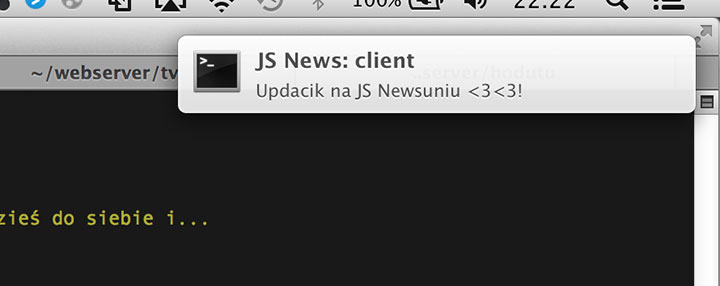
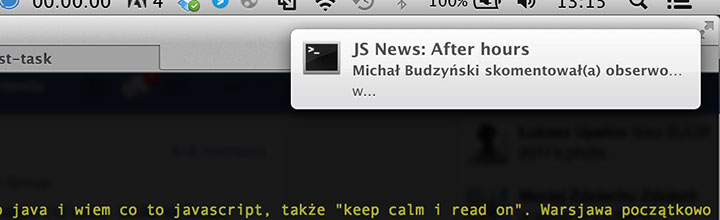
[JSNEWS-CLIENT] - :rocket: version 1.1

Changed region(s): [[0.0, 0.0, 1.0, 1.0], [0.0, 0.7364, 0.275, 0.7909]]

diff --git a/README.md b/README.md
@@ -5,8 +5,19 @@ JS News: Client by [Michał Budzyński](https://github.com/michalbe)
 
 ---
 ### Co? ###
-JS News: Client to oparty na node.js, commandlineowy klient do Waszej ulubionej fejsbukowej grupy - [JS News](https://www.facebook.com/groups/217169631654737/) . Umożliwia on przeglądanie postów i komentarzy bez uruchamiania przeglądarki, oraz informuje w czasie rzeczywistym o updatach (wykorzystując [Growl](http://growl.info/)).
+JS News: Client to oparty na node.js, commandlineowy klient do Waszej ulubionej fejsbukowej grupy - [JS News](https://www.facebook.com/groups/217169631654737/) . Umożliwia on przeglądanie postów i komentarzy bez uruchamiania przeglądarki, oraz informuje w czasie rzeczywistym o updatach poprzez systemowe notyfikacje.
 ![Growl notification](static/jsnewsgrowl.jpg)
+
+### Co nowego? ###
+Changelog:
+
+  * v 1.1 - 24 czerwca 2014 [autor: [Michał Maćkowiak](https://github.com/chemikpil)]:
+    * Możliwość przechodzenia pomiędzy grupami zdefiniowanymi w configu
+    * Moduł inputu zmienony z readLIne na [inquire](https://www.npmjs.org/package/inquirer)
+    * Growl zmieniony na [node-notifier](https://www.npmjs.org/package/node-notifier) (od OS X 10.8 notyfikacje systemowe + wsparcie dla Win i Linuxa)
+    * Notyfikacja informuje tylko o nowych postach (nie o lajkach i komentarzach), [Issue #34](https://github.com/michalbe/jsnews-client/issues/34)
+    * Możliwość obserwowania wybranych postów - dostają one notyfikacje o każdym lajku i komentarzu (uwaga na [Bug #33](https://github.com/michalbe/jsnews-client/issues/33))
+    * Kolory można teraz zmienić w pliku `config.js`
 
 ### Jak? ###
 Aby uruchomić JS News: Client należy:
@@ -14,7 +25,6 @@ Aby uruchomić JS News: Client należy:
   *  Do poprawnego działania potrzebujemy facebookowych kluczy - prywatnego i publicznego. Przepraszam, ale nie chciało mi się bawić w serwerowe zagadnienia (nie udaję nawet że umiem), najprościej więc będzie stworzyć nową aplikację [TUTAJ](https://developers.facebook.com/), następnie `APPS` -> `Create New` i wygenerować dla niej klucze (całość powinna trwać około 2.5 sec)
   ![Facebookowe klucze](static/keys.jpg)
   *  Dependencje `npm`. W katalogu głównym aplikacji odpalamy `npm install`.
-  *  Jeśli nie mamy `Growla` lub `MacOsXa`, czytamy tutaj: [https://github.com/visionmedia/node-growl#install](https://github.com/visionmedia/node-growl#install)
   *  Uruchamiamy z linii komend poprzez `node index.js`
   *  Cieszymy się, bawimy i radujemy.
 
@@ -23,18 +33,7 @@ Czy jesteś znudzony tłumaczeniem swoim współpracownikom i przełożonym że 
 ![lista tematów](static/jsnewslista.jpg)
 
 ### Co dalej? ###
-Wiele jeszcze zostało do zrobienia, m.in.:
-  *  Komentowanie z poziomu clienta
-  *  Lajkowanie (postów i komentarzy)
-  *  Wiecej mówiące notyfikacje (nie tylko 'Update!', bardziej w stylu 'XYZ dodał komentarz do postu ABC')
-  *  Otwieranie załączonych do postów i komentarzy linków bezpośrednio z aplikacji
-  *  Obsługa siostrzanych grup:
-    * JS News: After Hours
-    * JS News: Jobs (`if (content.innerHTML.indexOf('widełki') === -1) content.classList.add('hide')`)
-    * (obydwa przewidziane są już w testowym configu)
-  *  Schematy kolorystyczne zmieniane z configu (wiem że nie każdy ma ciemne tło w terminalu)
-  *  I pewnie krocie innych pomysłów.
-
+Wiele jeszcze zostało do zrobienia. Lista bugów i proponowanych ficzerów [znajduje się tutaj](https://github.com/michalbe/jsnews-client/issues?state=open). Proste poprawki, które nie powinny zająć więcej niż kilkadziesiąc minut (idealne aby rozpocząć przygodę z oprogramowaniem open source!) oznaczone zostały flagą [good-first-issue](https://github.com/michalbe/jsnews-client/issues?labels=good-first-issue&page=1&state=open).
 Jeśli masz czas i chęć rozwijać projekt, zapraszam (**dla każdego kto wyląduje rozsądny Pull Request w `masterze` darmowy bilet na tegoroczny [onGameStart](http://onGameStart.com)**)
 
 ![Szczegóły postu](static/jsnews-detail.jpg)
